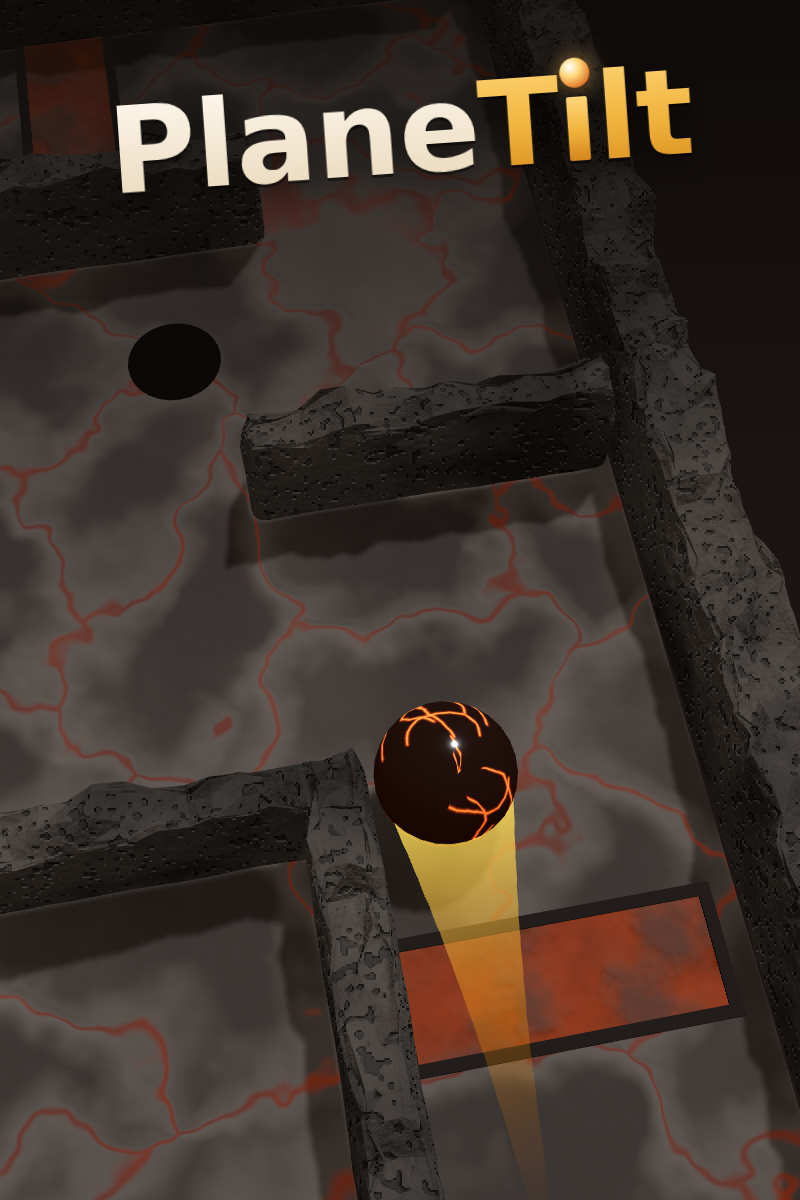
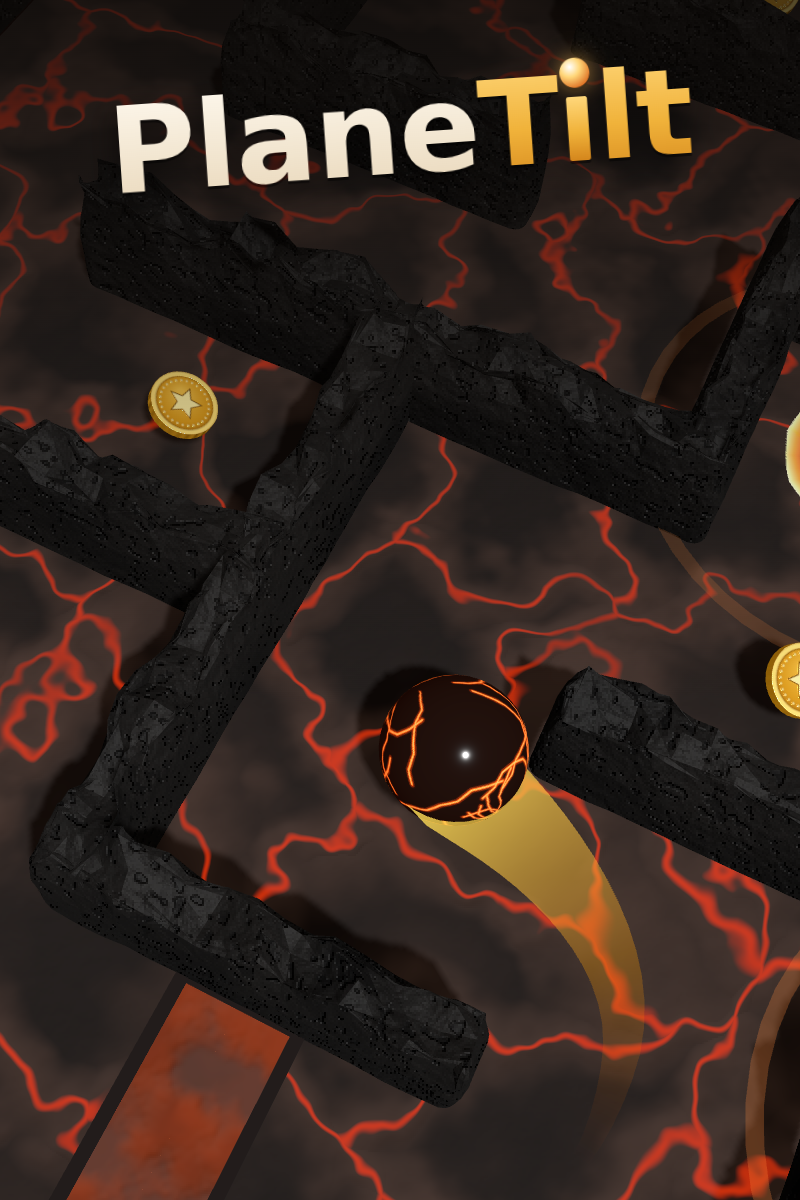
Store art: every shot from a world's level 10
Level 10 is where each world's look has fully arrived and all three of its
traps are in play. Covers: Toy Box (landscape), Magma Works (portrait),
the forest-grown Workshop (square); the videos run level 10 of all five
worlds and walk world 1's.

captureNoKnockOut (debug surface only) keeps a trap the autopilot cannot
time -- a flare, icicle, crusher or rail -- from ending a capture run.

Claude-Session: https://claude.ai/code/session_01HgM3WVM56aF41TaAnd9qvx

diff --git a/mazeGame.js b/mazeGame.js
@@ -1173,6 +1173,7 @@ function checkOutcomes() {
 // instead of the run: the ball is put back, stopped, on the last safe spot it
 // rolled over (mazePickups.js). Otherwise it falls.
 function knockOut(message) {
+    if (captureNoKnockOut) return;   // marketing captures only (scripts/marketing/)
     const back = absorbFall(pickupState);
     if (back) {
         // A bought shield is spent from the purchase, so a restart does not
@@ -1744,6 +1745,9 @@ function nextLevelAfter(lv) {
 // Marketing captures only (scripts/marketing/): a camera placed by hand, for
 // cover art and trailer shots the game's own cameras never take. Null in play.
 let cameraOverride = null;
+// Marketing captures only: the autopilot cannot time traps, so a capture run
+// is not ended by one. Never set in play.
+let captureNoKnockOut = false;
 
 const exclusive = {
     isActive: () => active,
@@ -1908,6 +1912,7 @@ window.__mazeDebug = {
     // The 3D view as a PNG data URL, rendered now: for screenshots taken under
     // a test clock, when no browser frame may come.
     // { px, py, pz, lx, ly, lz } puts the camera there, null gives it back.
+    captureNoKnockOut: (on) => { captureNoKnockOut = !!on; return captureNoKnockOut; },
     cameraOverride: (c) => {
         cameraOverride = c ? { pos: new THREE.Vector3(c.px, c.py, c.pz), lookAt: new THREE.Vector3(c.lx, c.ly, c.lz) } : null;
         requestRender();

diff --git a/marketing/README.md b/marketing/README.md
@@ -7,10 +7,10 @@ change so the listing never drifts from what players get.
 | File | Use |
 | --- | --- |
 | `../dist/planetilt-crazygames.zip` | The game upload. Built by `npm run build:crazygames`: flat (no folders), `index.html` at the root, CrazyGames SDK v3. Not committed (dist/ is build output). |
-| `cover-landscape-1920x1080.png` | Landscape cover (16:9) |
-| `cover-portrait-800x1200.png` | Portrait cover (2:3) |
-| `cover-square-800x800.png` | Square cover (1:1) |
-| `video-landscape-1920x1080.mp4` | Landscape gameplay video: three worlds with a chase camera, a first-person walk, then the logo |
+| `cover-landscape-1920x1080.png` | Landscape cover (16:9): Toy Box, level 10 |
+| `cover-portrait-800x1200.png` | Portrait cover (2:3): Magma Works, level 10 |
+| `cover-square-800x800.png` | Square cover (1:1): the Workshop grown to forest, level 10 |
+| `video-landscape-1920x1080.mp4` | Landscape gameplay video: level 10 of all five worlds with a chase camera, a first-person walk, then the logo |
 | `video-portrait-1080x1920.mp4` | Portrait gameplay video: the same runs from the game's own overhead camera |
 
 Sizes follow CrazyGames' usual asks (covers 1920×1080, 800×1200, 800×800;
@@ -29,10 +29,13 @@ node scripts/marketing/capture.cjs route w4_08       # check a level's autopilot
 npm run build:crazygames                             # the zip
 ```
 
-The game runs on a frozen clock and is stepped one 30 fps frame at a time, so
+Every shot uses a world's level 10, where its look has fully arrived and all
+three of its traps are in play. The game runs on a frozen clock and is stepped one 30 fps frame at a time, so
 the videos are smooth however slowly the machine renders. An autopilot follows
 a planned route by tilting (the board leans as it would in a player's hands);
-the cinematic shots use a debug-only camera override (`__mazeDebug.cameraOverride`).
+the cinematic shots use a debug-only camera override (`__mazeDebug.cameraOverride`),
+and `__mazeDebug.captureNoKnockOut` stops a trap the autopilot cannot time
+from ending a capture run. Both are debug-surface only, never set in play.
 
 ## Suggested listing text
 
